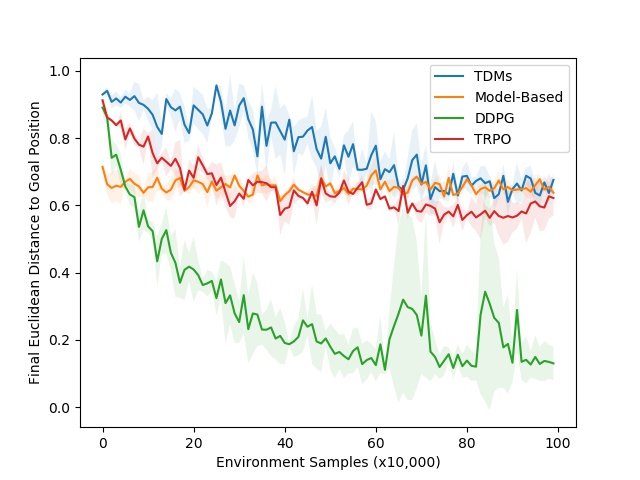
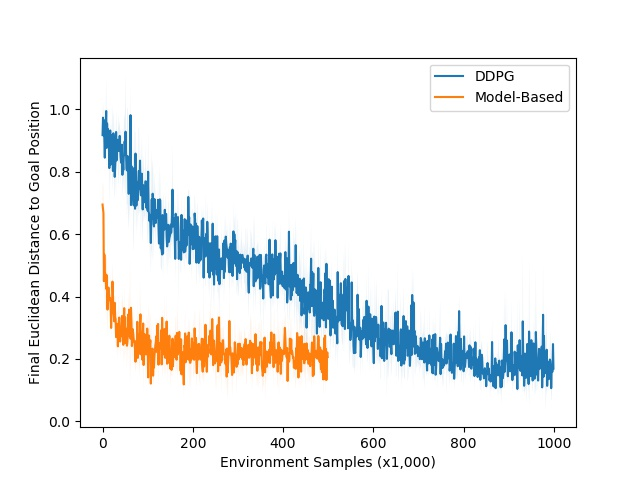
give up on pusher3d because mb does so well. updating other plots and stubbing out nupo sweep

diff --git a/experiments/state_distance/tdm/ddpg_tdm_launch.py b/experiments/state_distance/tdm/ddpg_tdm_launch.py
@@ -83,14 +83,14 @@ if __name__ == "__main__":
     mode = "local"
     exp_prefix = "dev-ddpg-tdm-launch"
 
-    n_seeds = 1
+    n_seeds = 3
     mode = "ec2"
-    exp_prefix = "cheetah-xpos-increase-distance"
+    exp_prefix = "ant-max-distance-6-h50"
 
-    num_epochs = 500
+    num_epochs = 300
     num_steps_per_epoch = 1000
     num_steps_per_eval = 1000
-    max_path_length = 100
+    max_path_length = 50
 
     # noinspection PyTypeChecker
     variant = dict(
@@ -142,8 +142,8 @@ if __name__ == "__main__":
         'env_class': [
             # Reacher7DofXyzGoalState,
             # GoalXVelHalfCheetah,
-            GoalXPosHalfCheetah,
-            # GoalXYPosAnt,
+            # GoalXPosHalfCheetah,
+            GoalXYPosAnt,
             # CylinderXYPusher2DEnv,
             # Walker2DTargetXPos,
             # MultitaskPusher3DEnv,
@@ -157,11 +157,11 @@ if __name__ == "__main__":
             # ),
             # dict(max_distance=2),
             # dict(max_distance=4),
-            # dict(max_distance=6),
+            dict(max_distance=6),
             # dict(max_distance=8),
-            dict(max_distance=20),
-            dict(max_distance=30),
-            dict(max_distance=40),
+            # dict(max_distance=20),
+            # dict(max_distance=30),
+            # dict(max_distance=40),
         ],
         'qf_criterion_class': [
             # HuberLoss,
@@ -174,13 +174,13 @@ if __name__ == "__main__":
             dict(theta=0.1, max_sigma=0.1, min_sigma=0.1),
         ],
         'ddpg_tdm_kwargs.tdm_kwargs.max_tau': [
-            max_path_length-1, 49, 15
+            max_path_length-1, 15
         ],
         'ddpg_tdm_kwargs.tdm_kwargs.dense_rewards': [
-            False, True,
+            False,
         ],
         'ddpg_tdm_kwargs.tdm_kwargs.finite_horizon': [
-            True, False,
+            True,
         ],
         'ddpg_tdm_kwargs.tdm_kwargs.tau_sample_strategy': [
             'uniform',
@@ -189,7 +189,7 @@ if __name__ == "__main__":
             'distance',
         ],
         'relabel': [
-            True, False,
+            True,
         ],
         # 'ddpg_tdm_kwargs.tdm_kwargs.truncated_geom_factor': [
         #     1,
@@ -203,19 +203,16 @@ if __name__ == "__main__":
             # 'none',
         ],
         'ddpg_tdm_kwargs.base_kwargs.reward_scale': [
-            0.01, 1, 100, 10000,
+            1, 100, 10000, 1000000
         ],
         'ddpg_tdm_kwargs.base_kwargs.num_updates_per_env_step': [
-            1,
+            1, 2, 5, 10
         ],
         'ddpg_tdm_kwargs.base_kwargs.discount': [
             1,
         ],
         'ddpg_tdm_kwargs.base_kwargs.batch_size': [
             128,
-        ],
-        'ddpg_tdm_kwargs.ddpg_kwargs.tau': [
-            0.001,
         ],
         'ddpg_tdm_kwargs.ddpg_kwargs.eval_with_target_policy': [
             False,

diff --git a/experiments/state_distance/iclr2018/cheetah_xpos_results.py b/experiments/state_distance/iclr2018/cheetah_xpos_results.py
@@ -2,47 +2,28 @@ from railrl.misc.data_processing import Experiment
 import matplotlib.pyplot as plt
 import numpy as np
 
-# ddpg_trials = Experiment(
-#     "/home/vitchyr/git/railrl/data/doodads3/12-17-tdm-half-cheetah-xpos/"
-# ).get_trials({
-#     'algorithm': 'DDPG',
-#     'multitask': True,
-#     'exp_id': '0',
-# })
-# tdm_trials = Experiment(
-#     "/home/vitchyr/git/railrl/data/doodads3/12-17-tdm-half-cheetah-xpos/"
-# ).get_trials({
-#     'algorithm': 'DDPG-TDM',
-#     'multitask': True,
-#     'exp_id': '3',
-# })
 mb_trials = Experiment(
-    "/home/vitchyr/git/railrl/data/doodads3/12-24-dagger-mb-ant-cheetah-pos-and-vel/"
-).get_trials({
-    'exp_id': '2'
-})
-ddpg_indicator_trials = Experiment(
-    "/home/vitchyr/git/railrl/data/doodads3/12-23-ddpg-sparse-sweep-4/"
-).get_trials({
-    'env_class.$class':
-        'railrl.envs.multitask.half_cheetah.GoalXPosHalfCheetah',
-    'exp_id': '13',
-})
-her_andry_trials = Experiment(
-    "/home/vitchyr/git/railrl/data/doodads3/12-24-her-andrychowicz-cheetah-xpos-rebutal/"
-).get_trials({
-    'exp_id': '20',
-})
+    "/home/vitchyr/git/railrl/data/doodads3/12-30-cheetah-xpos-increase-distance/",
+    criteria={
+        'algorithm': 'Model-Based-Dagger',
+        'env_kwargs.max_distance': 40,
+    },
+).get_trials()
+ddpg_trials = Experiment(
+    "/home/vitchyr/git/railrl/data/doodads3/12-30-cheetah-xpos-increase-distance/",
+    criteria={
+        'algorithm': 'DDPG',
+        'env_kwargs.max_distance': 40,
+        'exp_id': '10',
+    },
+).get_trials()
 
 MAX_ITERS = 10000
 plt.figure()
 base_key = 'Final_Distance_to_goal_Mean'
 for trials, name, key in [
-    # (tdm_trials, 'TDM', base_key),
     (mb_trials, 'Model Based', base_key),
-    # (ddpg_trials, 'DDPG', base_key),
-    (her_andry_trials, 'HER', base_key),
-    (ddpg_indicator_trials, 'DDPG-Sparse', base_key),
+    (ddpg_trials, 'DDPG', base_key),
 ]:
     all_values = []
     min_len = np.inf

diff --git a/experiments/state_distance/iclr2018/pusher3d_results.py b/experiments/state_distance/iclr2018/pusher3d_results.py
@@ -4,40 +4,24 @@ import numpy as np
 
 
 def main():
-    tdm_trials = Experiment(
-        "/home/vitchyr/git/railrl/data/doodads3/12-25-tdm-ddpg-pusher3d/",
+    ddpg_trials = Experiment(
+        "/home/vitchyr/git/railrl/data/doodads3/12-29-find-pusher3d-mismatch-2",
         criteria={
-             'exp_id': '3',
-        }
-    ).get_trials()
-    trpo_trials = Experiment(
-        "/home/vitchyr/git/railrl/data/doodads3/12-25-trpo-pusher-3d/",
-        criteria={
-            'exp_id': '2',
+            'env_kwargs.reward_coefs': [1, 0, 0],
+            'exp_id': '1',
         }
     ).get_trials()
     mb_trials = Experiment(
-        "/home/vitchyr/git/railrl/data/doodads3/12-25-mb-dagger-pusher-3d-take2/",
-        criteria={
-            'exp_id': '1',
-        }
-    ).get_trials()
-    ddpg_trials = Experiment(
-        "/home/vitchyr/git/railrl/data/doodads3/12-25-ddpg-pusher-3d-take2/",
-        criteria={
-            'exp_id': '1',
-        }
+        "/home/vitchyr/git/railrl/data/doodads3/12-30-mb-dagger-pusher3d-fixed-2/",
     ).get_trials()
 
-    MAX_ITERS = 100
+    MAX_ITERS = 10000
 
     plt.figure()
     base_key = 'Final Distance to goal Mean'
     for trials, name, key in [
-        (tdm_trials, 'TDMs', base_key),
-        (mb_trials, 'Model-Based', base_key),
         (ddpg_trials, 'DDPG', base_key),
-        (trpo_trials, 'TRPO', base_key),
+        (mb_trials, 'Model-Based', base_key),
     ]:
         key = key.replace(" ", "_")
         all_values = []
@@ -59,7 +43,7 @@ def main():
         plt.fill_between(epochs, mean - std, mean + std, alpha=0.1)
         plt.plot(epochs, mean, label=name)
 
-    plt.xlabel("Environment Samples (x10,000)")
+    plt.xlabel("Environment Samples (x1,000)")
     plt.ylabel("Final Euclidean Distance to Goal Position")
     plt.legend()
     plt.savefig('results/iclr2018/pusher3d.jpg')

diff --git a/experiments/state_distance/baselines/ddpg.py b/experiments/state_distance/baselines/ddpg.py
@@ -63,14 +63,14 @@ if __name__ == "__main__":
     mode = "local"
     exp_prefix = "dev-state-distance-ddpg-baseline"
 
-    n_seeds = 1
+    n_seeds = 3
     mode = "ec2"
-    exp_prefix = "cheetah-xpos-increase-distance"
+    exp_prefix = "ant-max-distance-6-h50"
 
-    num_epochs = 500
+    num_epochs = 300
     num_steps_per_epoch = 1000
     num_steps_per_eval = 1000
-    max_path_length = 100
+    max_path_length = 50
 
     # noinspection PyTypeChecker
     variant = dict(
@@ -109,10 +109,10 @@ if __name__ == "__main__":
         'env_class': [
             # Reacher7DofXyzGoalState,
             # GoalXVelHalfCheetah,
-            # GoalXYPosAnt,
+            GoalXYPosAnt,
             # GoalXYPosAndVelAnt,
             # CylinderXYPusher2DEnv,
-            GoalXPosHalfCheetah,
+            # GoalXPosHalfCheetah,
             # MultitaskPusher3DEnv,
             # Walker2DTargetXPos,
         ],
@@ -126,9 +126,7 @@ if __name__ == "__main__":
         #     2,
         # ],
         'env_kwargs.max_distance': [
-            20,
-            30,
-            40,
+            6,
         ],
         # 'env_kwargs.speed_weight': [
             # 0.9,
@@ -137,13 +135,10 @@ if __name__ == "__main__":
             # True, False,
         # ],
         'algo_kwargs.reward_scale': [
-           0.01, 0.1, 1, 10, 100,
-        ],
-        'algo_kwargs.max_path_length': [
-            100
+           1, 100, 10000, 1000000
         ],
         'algo_kwargs.num_updates_per_env_step': [
-            1,
+            1, 2, 5, 10
         ],
         'algo_kwargs.batch_size': [
             128,

diff --git a/experiments/state_distance/baselines/dagger.py b/experiments/state_distance/baselines/dagger.py
@@ -71,12 +71,12 @@ if __name__ == "__main__":
 
     n_seeds = 3
     mode = "ec2"
-    exp_prefix = "mb-dagger-pusher3d-fixed-2"
+    exp_prefix = "ant-max-distance-6-h50"
 
-    num_epochs = 500
+    num_epochs = 300
     num_steps_per_epoch = 1000
     num_steps_per_eval = 1000
-    max_path_length = 100
+    max_path_length = 50
 
     # noinspection PyTypeChecker
     variant = dict(
@@ -111,24 +111,24 @@ if __name__ == "__main__":
         'env_class': [
             # Reacher7DofXyzGoalState,
             # GoalXVelHalfCheetah,
-            # GoalXYPosAnt,
+            GoalXYPosAnt,
             # GoalXPosHalfCheetah,
             # CylinderXYPusher2DEnv,
-            MultitaskPusher3DEnv,
+            # MultitaskPusher3DEnv,
             # Walker2DTargetXPos,
         ],
         'multitask': [True],
         'algo_kwargs.num_paths_for_normalization': [20],
-        # 'env_kwargs.max_distance': [
-        #     6,
-        # ],
+        'env_kwargs.max_distance': [
+            6,
+        ],
         # 'env_kwargs.use_low_gear_ratio': [
         #     False,
         # ],
         'algo_kwargs.batch_size': [128],
         'mpc_controller_kwargs.mpc_horizon': [15],
         'algo_kwargs.num_updates_per_env_step': [
-            1,
+            1, 2, 5, 10
         ],
         # 'env_kwargs.max_distance': [
             # 20,
